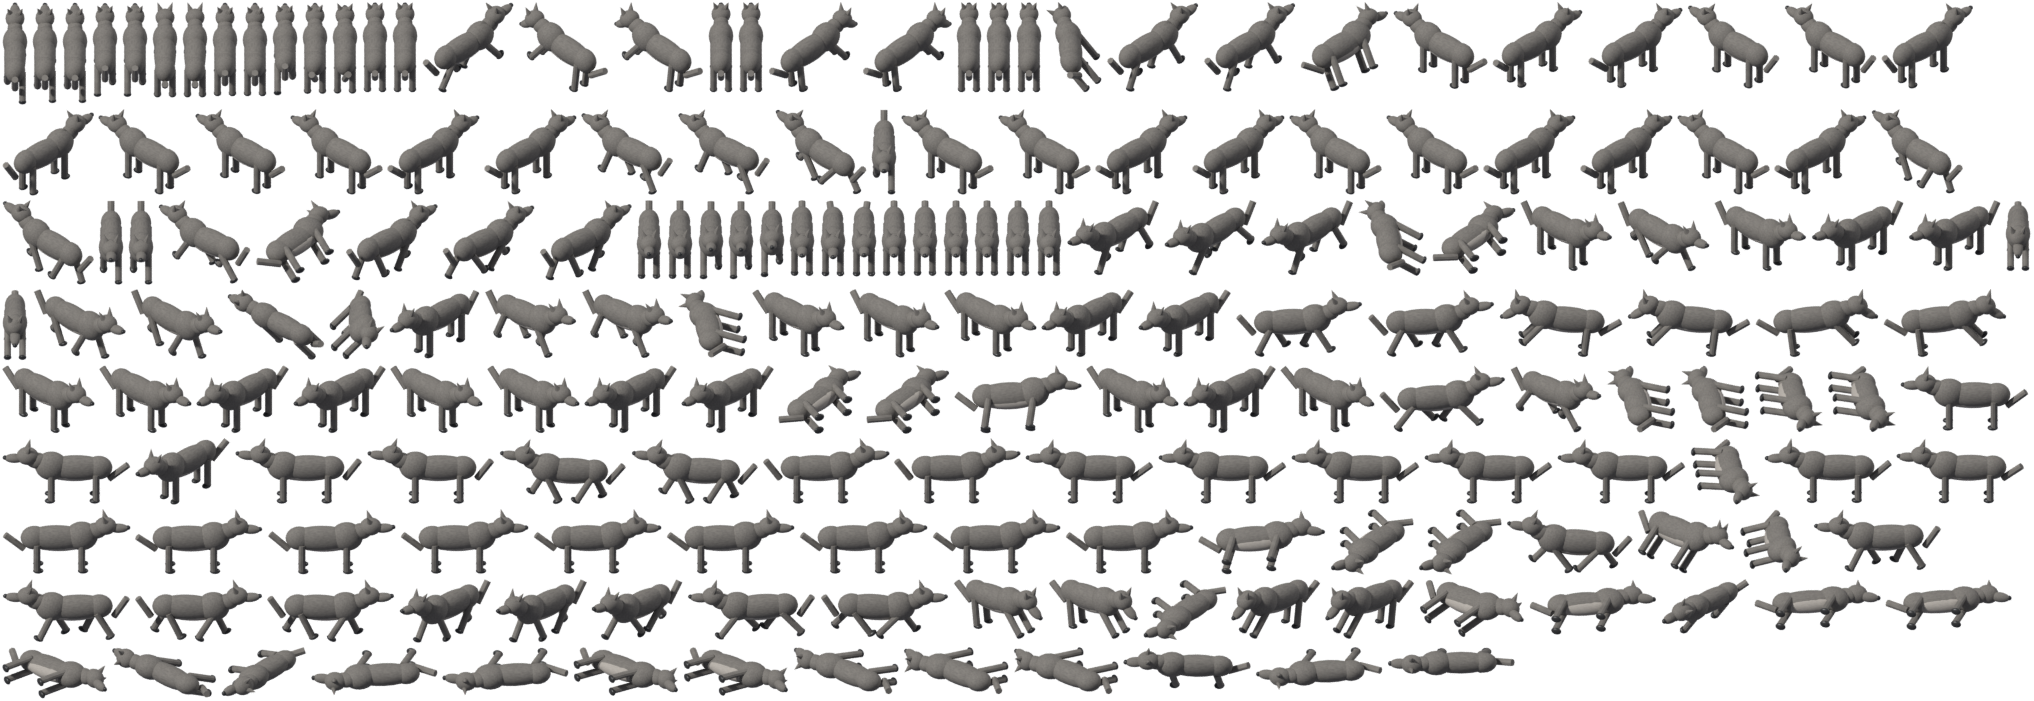
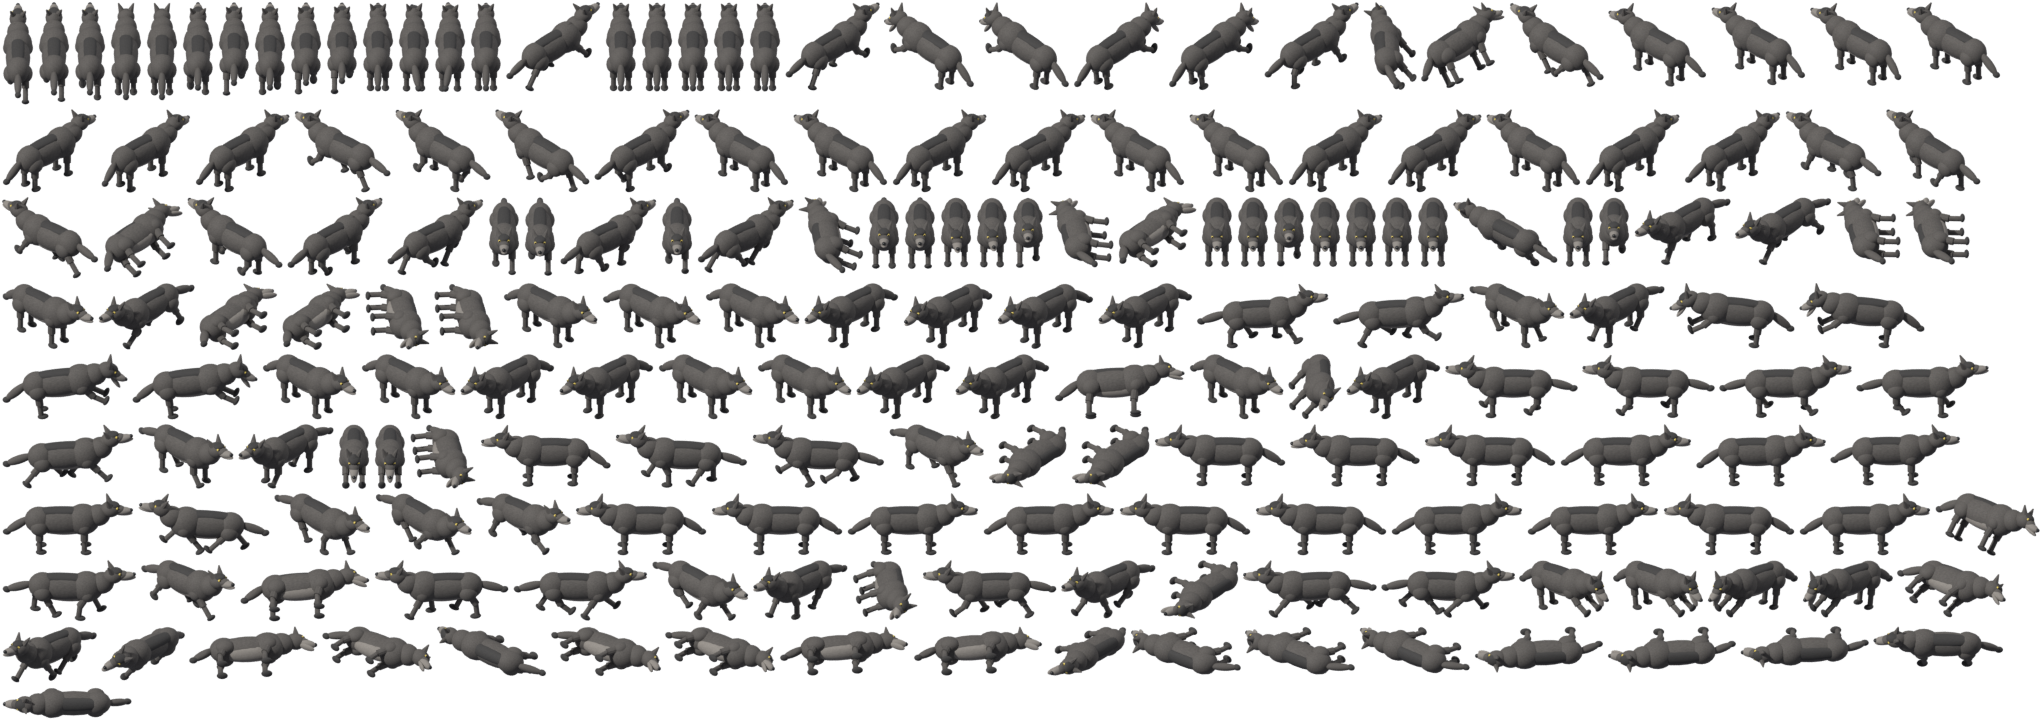
Darken and detail the Blender wolf
Darker fur with bump-mapped noise, a dark saddle, pale muzzle and belly,
neck ruff, jointed legs with knees, shoulder and haunch masses, a bushy
tail, yellow eyes and a jaw that opens on the bite. Re-rendered sheet.

Claude-Session: https://claude.ai/code/session_01G9GNLR8d2AiYk5Q3cEv2Lq

diff --git a/tools/blender/render_iso.py b/tools/blender/render_iso.py
@@ -122,7 +122,7 @@ def setup_lights(scene, cam):
 
 
 # ---------------------------------------------------------------- materials
-def material(name, color, roughness=0.8, noise=None, wave=None):
+def material(name, color, roughness=0.8, noise=None, wave=None, bump=None):
     """Principled material; `noise` = (scale, dark_color) mixes a noise pattern, `wave` = (scale, dark_color)
     adds horizontal bands (logs, planks)."""
     m = bpy.data.materials.new(name)
@@ -156,6 +156,17 @@ def material(name, color, roughness=0.8, noise=None, wave=None):
         links.new(mix.outputs[2], bsdf.inputs['Base Color'])
     else:
         bsdf.inputs['Base Color'].default_value = color
+    if bump:
+        coord2 = nodes.new('ShaderNodeTexCoord')
+        btex = nodes.new('ShaderNodeTexNoise')
+        btex.inputs['Scale'].default_value = bump[0]
+        btex.inputs['Detail'].default_value = 6
+        btex.inputs['Roughness'].default_value = 0.7
+        bnode = nodes.new('ShaderNodeBump')
+        bnode.inputs['Strength'].default_value = bump[1]
+        links.new(coord2.outputs['Object'], btex.inputs['Vector'])
+        links.new(btex.outputs['Fac'], bnode.inputs['Height'])
+        links.new(bnode.outputs['Normal'], bsdf.inputs['Normal'])
     return m
 
 
@@ -266,47 +277,72 @@ def pivot(name, loc, parent):
 
 
 def build_wolf():
-    """A low-poly grey wolf facing -Y, about one tile long. Returns (root, pose) where pose(anim, t)
+    """A grey wolf facing -Y, a little over one tile long. Returns (root, pose) where pose(anim, t)
     sets the procedural animation for normalized time t in [0, 1]."""
-    fur = material('fur', (0.27, 0.25, 0.22), noise=(9, (0.12, 0.11, 0.10)))
-    belly = material('belly', (0.52, 0.48, 0.42), noise=(9, (0.34, 0.31, 0.28)))
-    dark = material('dark', (0.03, 0.03, 0.03), roughness=0.4)
+    fur = material('fur', (0.16, 0.145, 0.13), noise=(14, (0.06, 0.055, 0.05)), bump=(60, 0.35))
+    fur_light = material('fur_light', (0.36, 0.33, 0.29), noise=(14, (0.20, 0.18, 0.16)), bump=(60, 0.3))
+    fur_dark = material('fur_dark', (0.07, 0.065, 0.06), noise=(14, (0.03, 0.03, 0.03)), bump=(60, 0.35))
+    dark = material('dark', (0.02, 0.02, 0.02), roughness=0.35)
+    eye = material('eye', (0.85, 0.65, 0.12), roughness=0.3)
     root = pivot('Wolf', (0, 0, 0), None)
     body = pivot('pose', (0, 0, 0), root)
-    sphere((0, 0.05, 0.50), (0.16, 0.50, 0.19), fur, 'torso', body)
-    sphere((0, -0.32, 0.53), (0.18, 0.24, 0.22), fur, 'chest', body)
-    sphere((0, 0.38, 0.50), (0.15, 0.20, 0.18), fur, 'hips', body)
-    sphere((0, 0.02, 0.41), (0.12, 0.42, 0.12), belly, 'belly', body)
-    neck = pivot('neck', (0, -0.50, 0.62), body)
-    sphere((0, -0.03, 0.0), (0.11, 0.16, 0.12), fur, 'neck_mesh', neck)
-    head = pivot('head', (0, -0.17, 0.08), neck)
-    sphere((0, 0, 0), (0.14, 0.16, 0.13), fur, 'skull', head)
-    sphere((0, -0.19, -0.04), (0.075, 0.15, 0.065), fur, 'snout', head)
-    sphere((0, -0.33, -0.03), (0.035, 0.035, 0.03), dark, 'nose', head)
+    # torso masses
+    sphere((0, 0.03, 0.47), (0.18, 0.50, 0.20), fur, 'torso', body)
+    sphere((0, -0.28, 0.49), (0.21, 0.25, 0.235), fur, 'chest', body)
+    sphere((0, 0.37, 0.48), (0.175, 0.21, 0.20), fur, 'hips', body)
+    sphere((0, 0.02, 0.62), (0.10, 0.48, 0.07), fur_dark, 'saddle', body)
+    sphere((0, 0.0, 0.37), (0.135, 0.42, 0.12), fur_light, 'belly', body)
     for sx in (-1, 1):
-        sphere((sx * 0.055, -0.09, 0.05), (0.025, 0.02, 0.02), dark, f'eye{sx}', head)
-        bpy.ops.mesh.primitive_cone_add(vertices=8, radius1=0.05, radius2=0, depth=0.16, location=(sx * 0.085, 0.02, 0.15))
+        sphere((sx * 0.125, -0.30, 0.42), (0.095, 0.11, 0.11), fur, f'shoulder{sx}', body)
+        sphere((sx * 0.115, 0.36, 0.41), (0.10, 0.135, 0.125), fur, f'haunch{sx}', body)
+    # neck, ruff and head
+    neck = pivot('neck', (0, -0.47, 0.57), body)
+    sphere((0, -0.03, -0.01), (0.16, 0.18, 0.16), fur, 'ruff', neck)
+    sphere((0, -0.10, 0.04), (0.11, 0.15, 0.11), fur, 'neck_mesh', neck)
+    head = pivot('head', (0, -0.21, 0.09), neck)
+    sphere((0, 0, 0), (0.125, 0.145, 0.115), fur, 'skull', head)
+    sphere((0, -0.03, 0.06), (0.09, 0.11, 0.06), fur_dark, 'brow', head)
+    sphere((0, -0.17, -0.025), (0.068, 0.15, 0.058), fur_light, 'muzzle', head)
+    sphere((0, -0.12, 0.0), (0.075, 0.10, 0.06), fur, 'muzzle_top', head)
+    sphere((0, -0.305, -0.015), (0.03, 0.03, 0.026), dark, 'nose', head)
+    jaw = pivot('jaw', (0, -0.09, -0.06), head)
+    sphere((0, -0.11, -0.005), (0.05, 0.13, 0.03), fur_light, 'jaw_mesh', jaw)
+    for sx in (-1, 1):
+        sphere((sx * 0.06, -0.10, 0.045), (0.024, 0.02, 0.02), eye, f'eye{sx}', head)
+        sphere((sx * 0.066, -0.118, 0.047), (0.011, 0.01, 0.011), dark, f'pupil{sx}', head)
+        bpy.ops.mesh.primitive_cone_add(vertices=8, radius1=0.05, radius2=0.008, depth=0.15, location=(sx * 0.085, 0.03, 0.135))
         ear = bpy.context.active_object
         ear.name = f'ear{sx}'
-        ear.rotation_euler = (math.radians(-15), math.radians(sx * 20), 0)
+        ear.rotation_euler = (math.radians(-18), math.radians(sx * 22), 0)
         ear.data.materials.append(fur)
         ear.parent = head
-    legs = {}
-    for name, (x, y) in {'fl': (-0.11, -0.32), 'fr': (0.11, -0.32), 'bl': (-0.11, 0.34), 'br': (0.11, 0.34)}.items():
-        p = pivot('leg_' + name, (x, y, 0.44), body)
-        bpy.ops.mesh.primitive_cylinder_add(vertices=10, radius=0.05, depth=0.44, location=(0, 0, -0.22))
-        leg = bpy.context.active_object
-        leg.name = 'legmesh_' + name
-        leg.data.materials.append(fur)
-        leg.parent = p
-        sphere((0, -0.02, -0.44), (0.055, 0.075, 0.035), dark, 'paw_' + name, p)
-        legs[name] = p
-    tail = pivot('tail', (0, 0.54, 0.54), body)
-    bpy.ops.mesh.primitive_cylinder_add(vertices=8, radius=0.05, depth=0.36, location=(0, 0.13, -0.11), rotation=(math.radians(-50), 0, 0))
+    # jointed legs
+    legs, knees = {}, {}
+    for name, (x, y) in {'fl': (-0.12, -0.30), 'fr': (0.12, -0.30), 'bl': (-0.11, 0.36), 'br': (0.11, 0.36)}.items():
+        hip = pivot('leg_' + name, (x, y, 0.42), body)
+        bpy.ops.mesh.primitive_cylinder_add(vertices=10, radius=0.055, depth=0.23, location=(0, 0, -0.11))
+        upper = bpy.context.active_object
+        upper.name = 'upper_' + name
+        upper.data.materials.append(fur)
+        upper.parent = hip
+        knee = pivot('knee_' + name, (0, 0, -0.22), hip)
+        bpy.ops.mesh.primitive_cylinder_add(vertices=10, radius=0.038, depth=0.22, location=(0, 0, -0.10))
+        lower = bpy.context.active_object
+        lower.name = 'lower_' + name
+        lower.data.materials.append(fur)
+        lower.parent = knee
+        sphere((0, -0.025, -0.205), (0.055, 0.08, 0.035), fur_dark, 'paw_' + name, knee)
+        legs[name], knees[name] = hip, knee
+    tail = pivot('tail', (0, 0.53, 0.50), body)
+    bpy.ops.mesh.primitive_uv_sphere_add(segments=16, ring_count=10, radius=1, location=(0, 0.15, -0.10))
     t = bpy.context.active_object
     t.name = 'tail_mesh'
+    t.scale = (0.055, 0.21, 0.065)
+    t.rotation_euler = (math.radians(-35), 0, 0)
     t.data.materials.append(fur)
     t.parent = tail
+    bpy.ops.object.shade_smooth()
+    sphere((0, 0.31, -0.22), (0.045, 0.06, 0.045), fur_dark, 'tail_tip', tail)
     bpy.context.view_layer.update()
 
     def pose(anim, t):
@@ -315,44 +351,53 @@ def build_wolf():
         body.rotation_euler = (0, 0, 0)
         neck.rotation_euler = (0, 0, 0)
         head.rotation_euler = (0, 0, 0)
+        jaw.rotation_euler = (0, 0, 0)
         tail.rotation_euler = (0, 0, 0)
-        for p in legs.values():
+        for p in list(legs.values()) + list(knees.values()):
             p.rotation_euler = (0, 0, 0)
         if anim == 'stance':
             body.location = (0, 0, 0.012 * math.sin(w))
-            head.rotation_euler = (math.radians(4 * math.sin(w)), 0, 0)
-            tail.rotation_euler = (0, 0, math.radians(12 * math.sin(w)))
+            head.rotation_euler = (math.radians(4 * math.sin(w)), 0, math.radians(6 * math.sin(w / 2)))
+            tail.rotation_euler = (0, 0, math.radians(14 * math.sin(w)))
         elif anim == 'run':
-            swing = math.radians(38)
-            legs['fl'].rotation_euler.x = swing * math.sin(w)
-            legs['br'].rotation_euler.x = swing * math.sin(w)
-            legs['fr'].rotation_euler.x = -swing * math.sin(w)
-            legs['bl'].rotation_euler.x = -swing * math.sin(w)
+            swing = math.radians(40)
+            for name, phase in (('fl', 0), ('br', 0), ('fr', math.pi), ('bl', math.pi)):
+                sw = math.sin(w + phase)
+                legs[name].rotation_euler.x = swing * sw
+                # knee bends when the leg swings forward
+                knees[name].rotation_euler.x = math.radians(-35 * max(0.0, math.sin(w + phase + math.pi / 2)))
             body.location = (0, 0, 0.035 * abs(math.sin(w)))
             body.rotation_euler.x = math.radians(4 * math.sin(w))
-            neck.rotation_euler.x = math.radians(-8)
-            tail.rotation_euler.x = math.radians(15)
+            neck.rotation_euler.x = math.radians(-10)
+            tail.rotation_euler.x = math.radians(18)
         elif anim == 'swing':
-            k = math.sin(math.pi * t)           # lunge out and back
+            k = math.sin(math.pi * t)
             body.location = (0, -0.18 * k, 0.04 * k)
             body.rotation_euler.x = math.radians(-8 * k)
             neck.rotation_euler.x = math.radians(18 * k)
-            head.rotation_euler.x = math.radians(25 * k)
-            legs['fl'].rotation_euler.x = math.radians(-40 * k)
-            legs['fr'].rotation_euler.x = math.radians(-40 * k)
+            head.rotation_euler.x = math.radians(22 * k)
+            jaw.rotation_euler.x = math.radians(32 * k)
+            legs['fl'].rotation_euler.x = math.radians(-45 * k)
+            legs['fr'].rotation_euler.x = math.radians(-45 * k)
+            knees['fl'].rotation_euler.x = math.radians(-20 * k)
+            knees['fr'].rotation_euler.x = math.radians(-20 * k)
         elif anim == 'hit':
             k = math.sin(math.pi * t)
             body.location = (0, 0.08 * k, 0)
             body.rotation_euler.x = math.radians(10 * k)
             head.rotation_euler.x = math.radians(-20 * k)
+            jaw.rotation_euler.x = math.radians(15 * k)
         elif anim == 'die':
             k = min(1, t * 1.25)
             e = 1 - (1 - k) ** 2
             body.rotation_euler = (math.radians(-6 * e), math.radians(88 * e), 0)
-            body.location = (0.05 * e, 0, -0.36 * e)
+            body.location = (0.05 * e, 0, -0.31 * e)
             neck.rotation_euler.x = math.radians(20 * e)
+            jaw.rotation_euler.x = math.radians(18 * e)
             for p in legs.values():
                 p.rotation_euler.x = math.radians(25 * e)
+            for p in knees.values():
+                p.rotation_euler.x = math.radians(-20 * e)
     return root, pose
 
 
